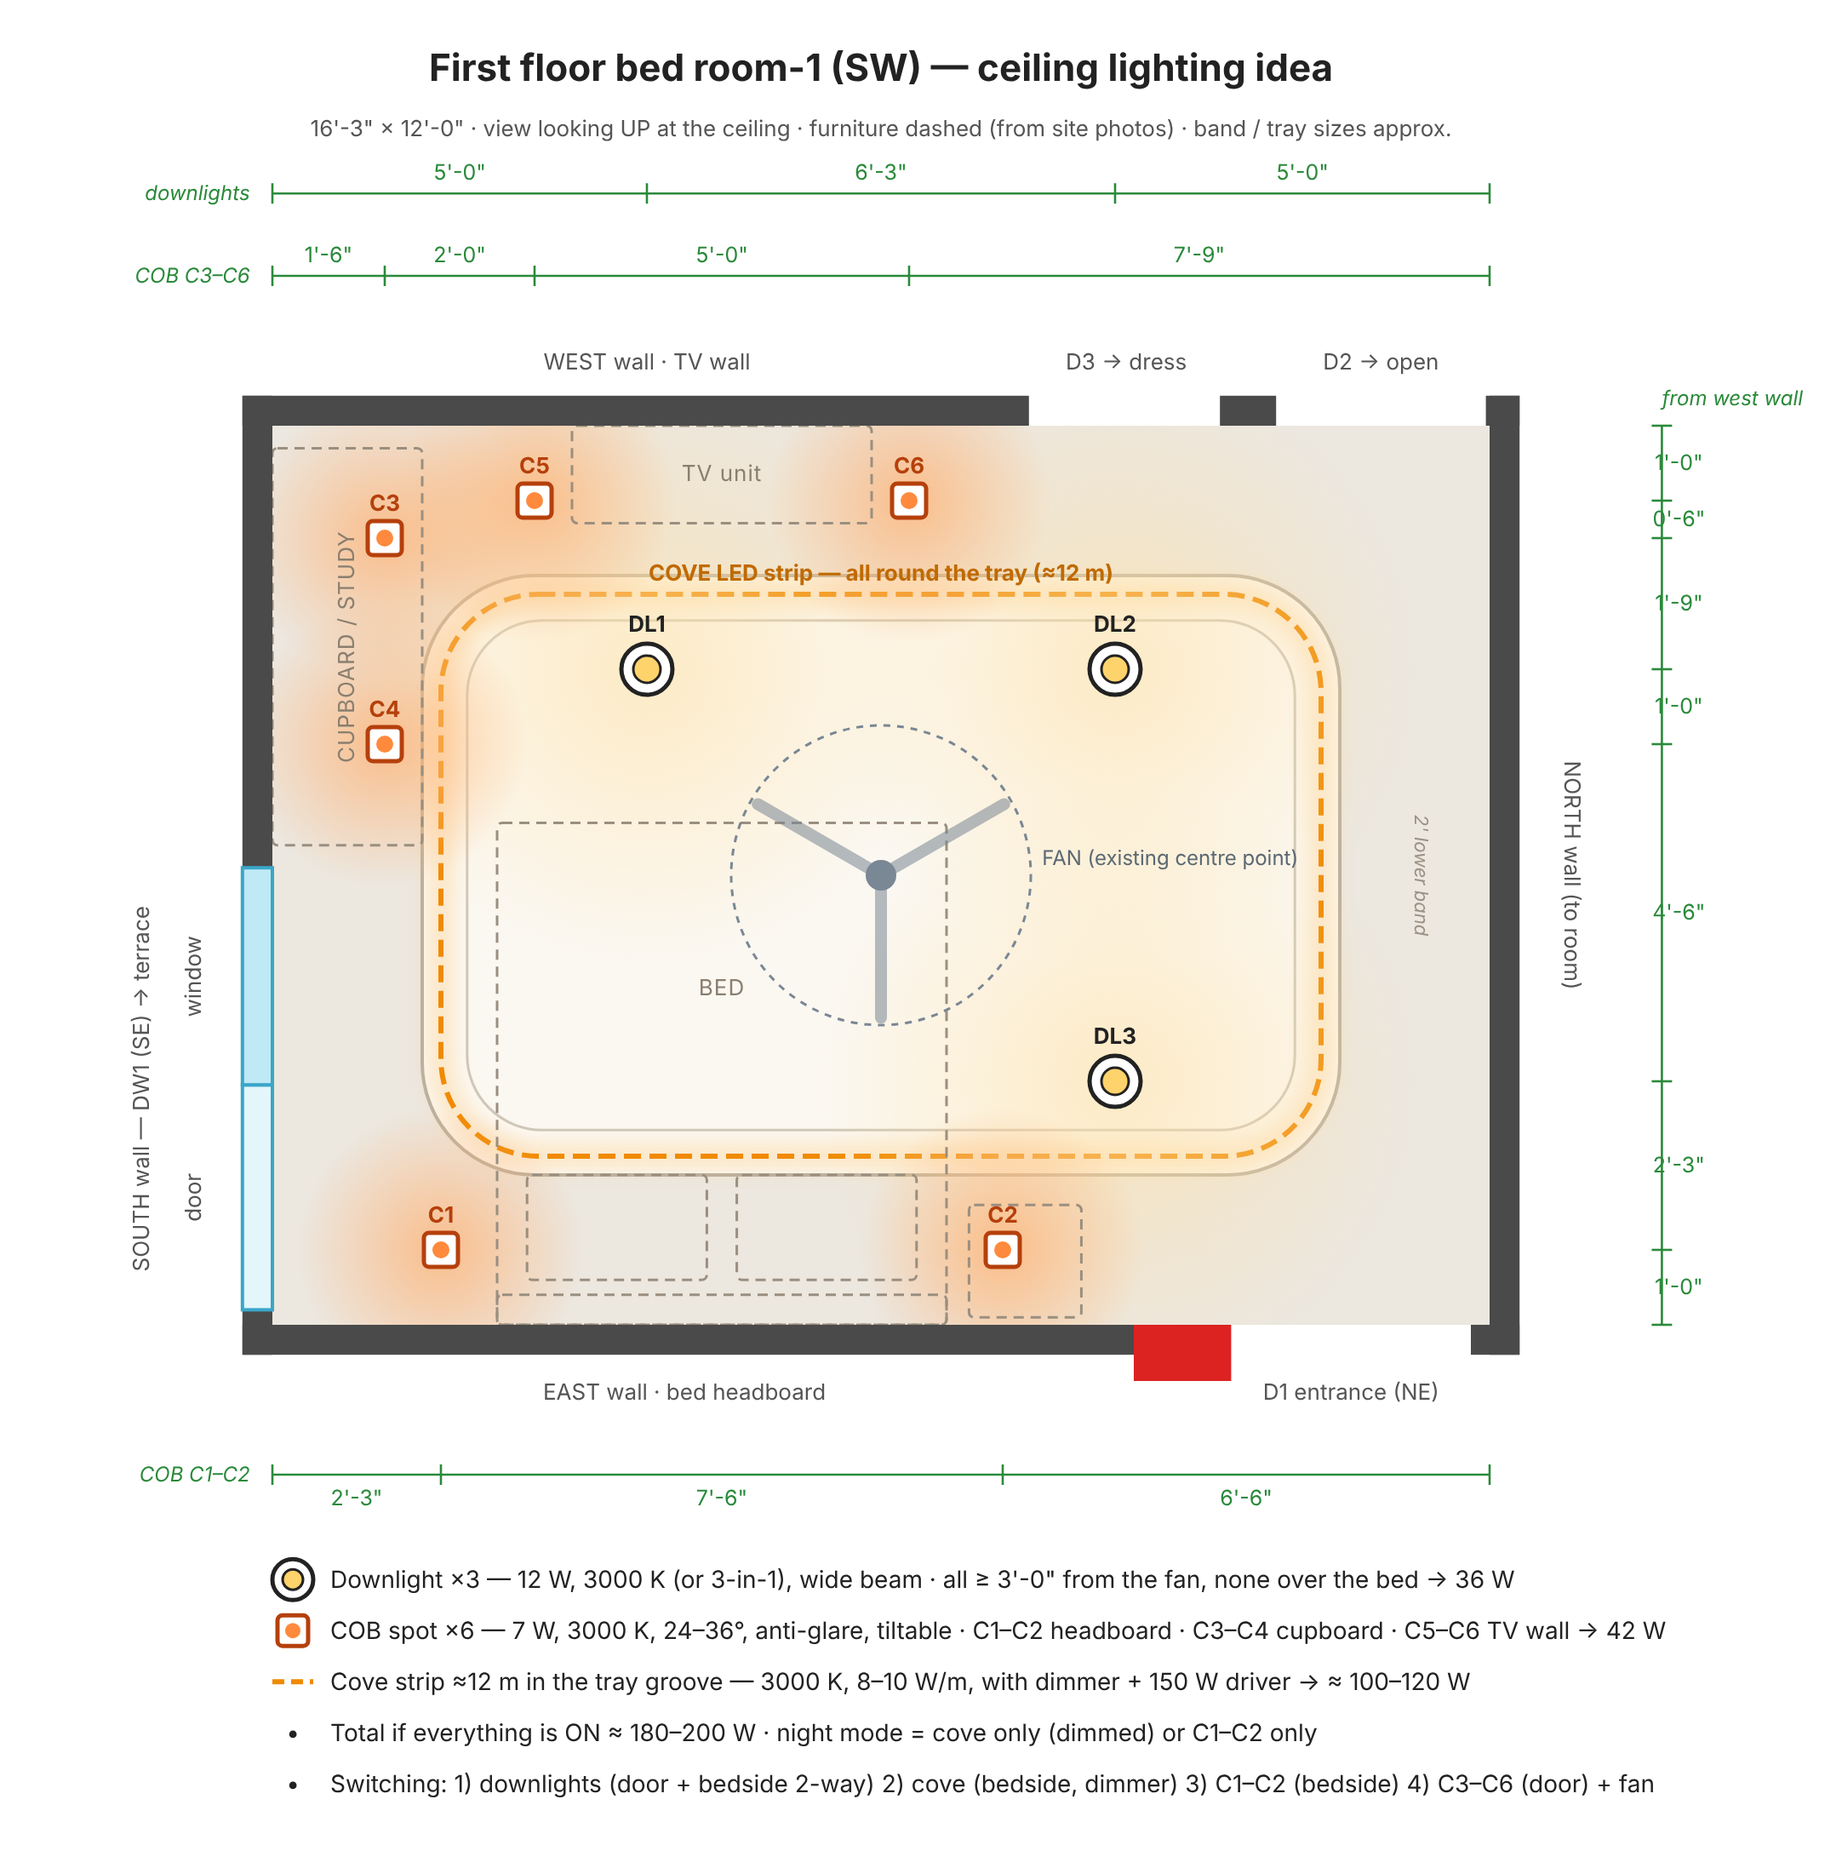
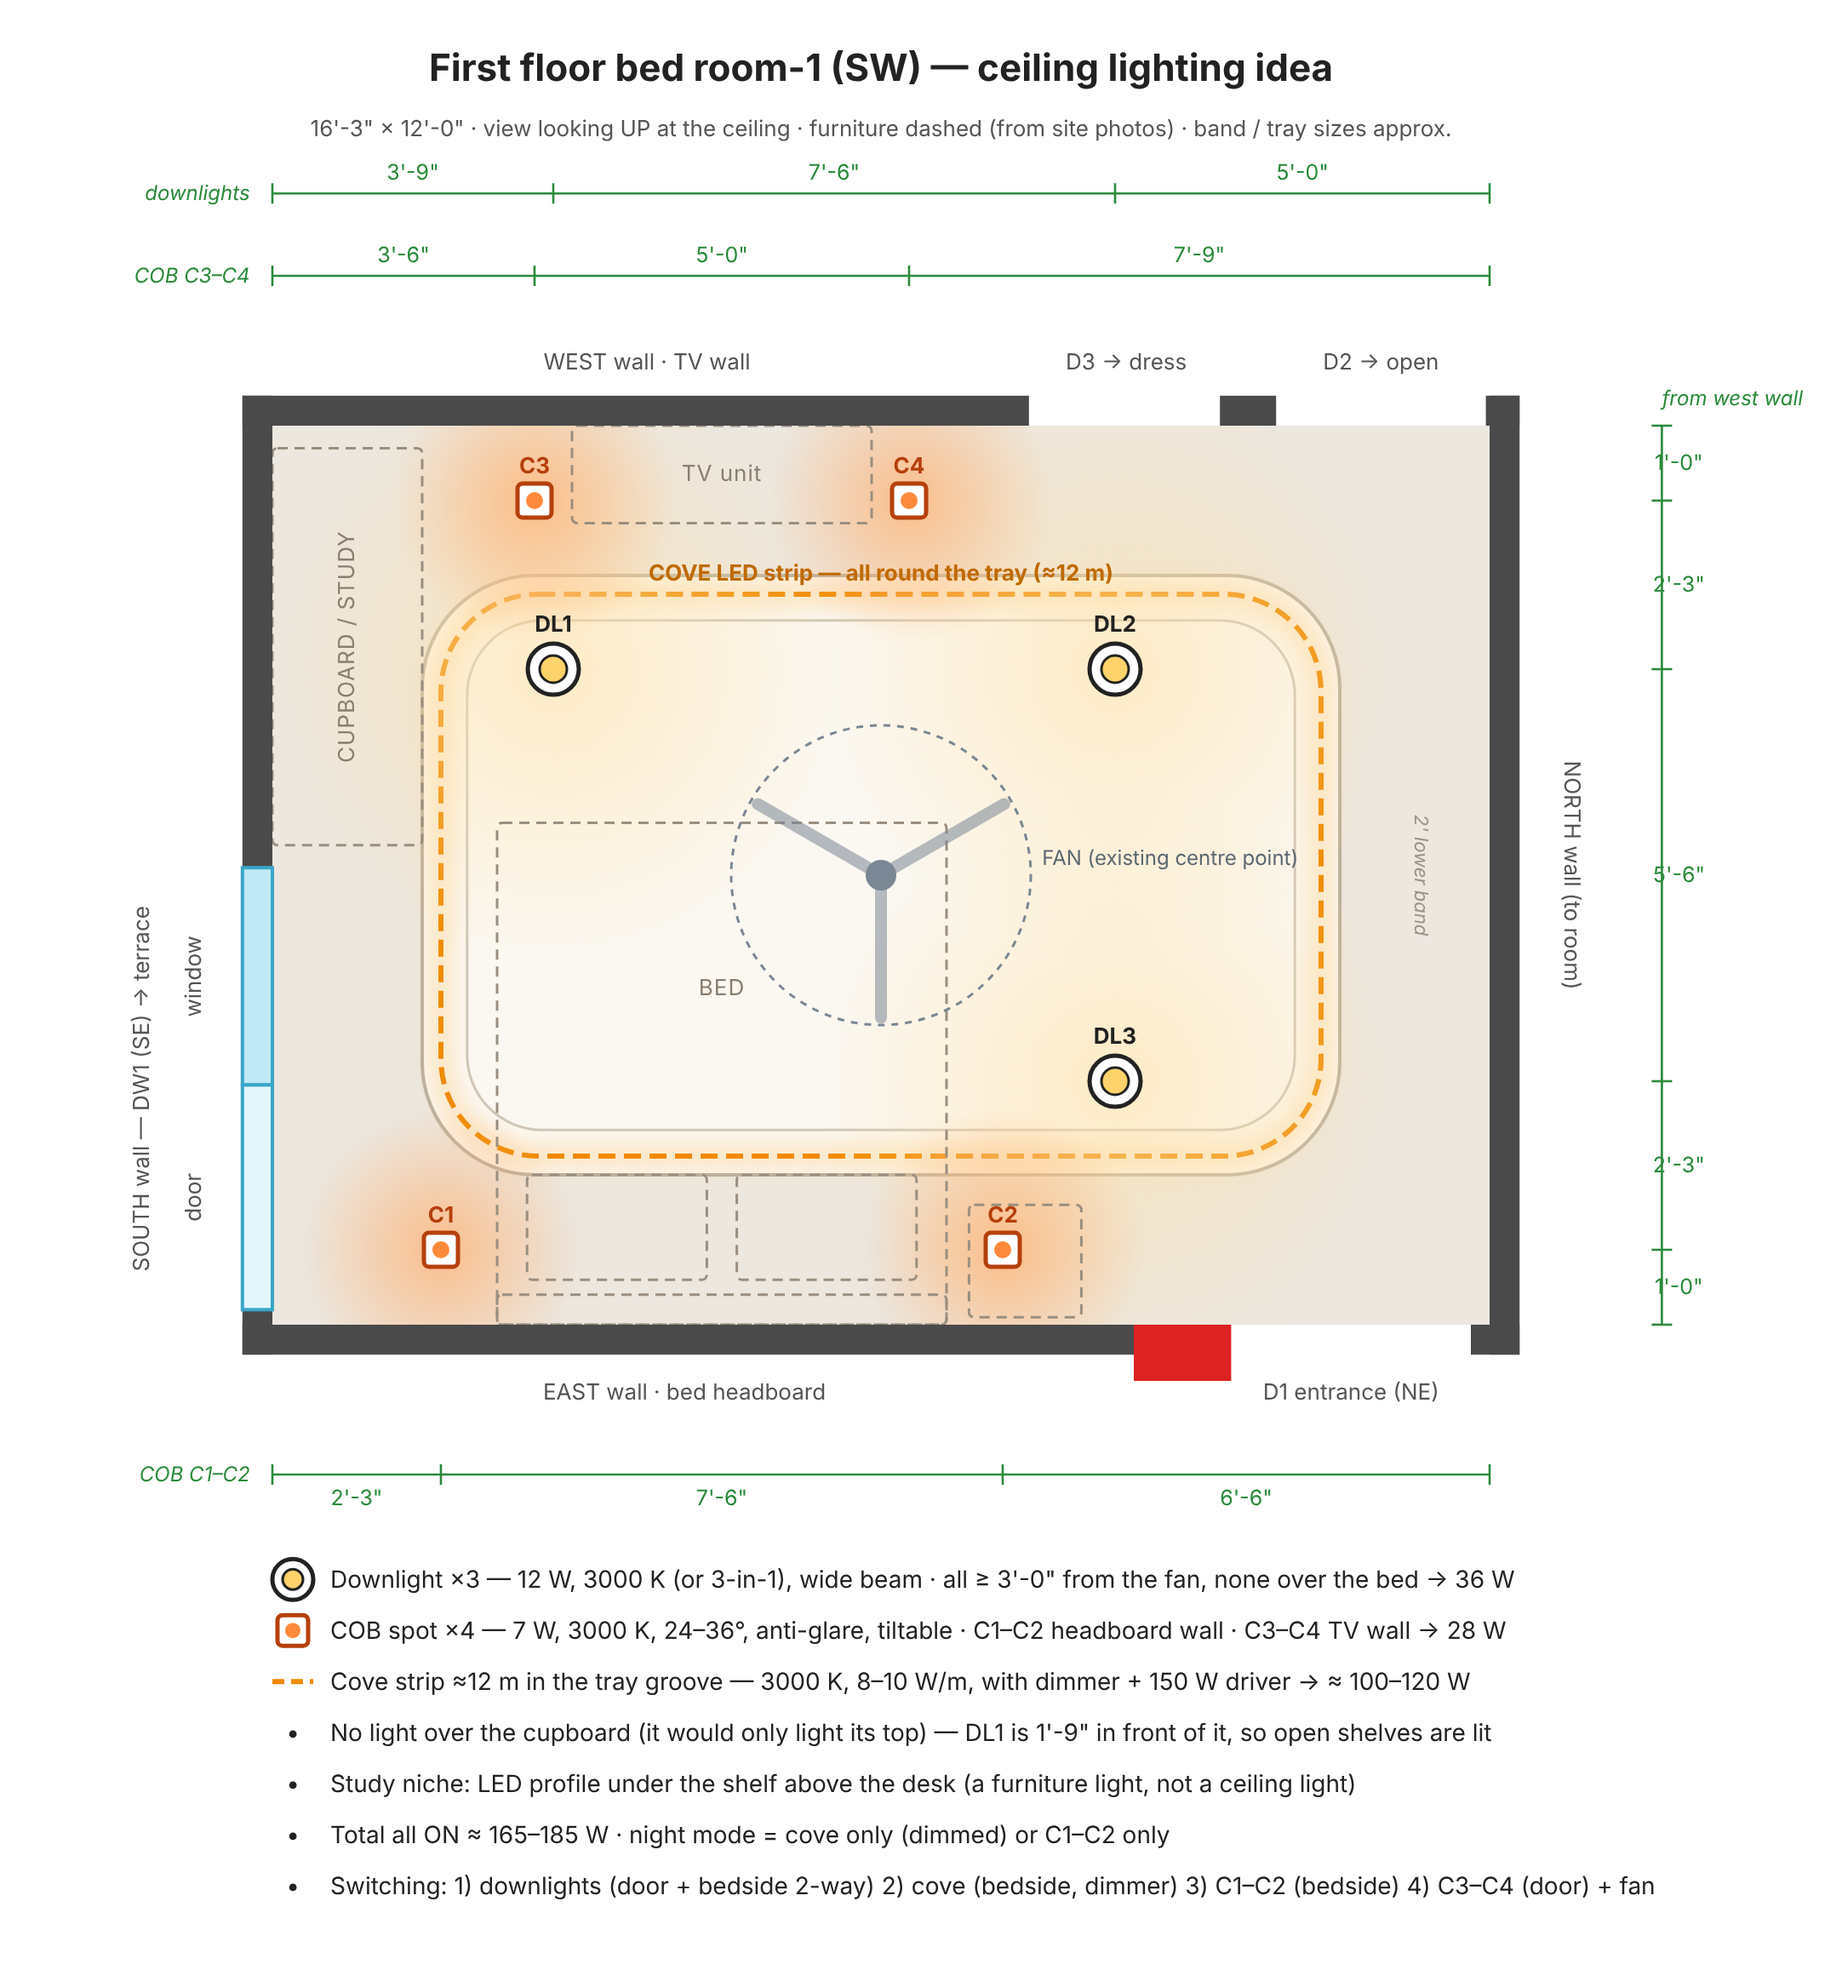
fix(ideas): drop spots over cupboard/wardrobe in bedroom lighting plans
A ceiling spot above a 2'-deep unit only lights its top. Front-of-unit
light now comes from the nearest downlights; dresser spot moved in front.

Claude-Session: https://claude.ai/code/session_01NB31rmuUVJUG6RumaKdizv

diff --git a/ideas/first_bedroom1_ceiling_lights.py b/ideas/first_bedroom1_ceiling_lights.py
@@ -28,10 +28,10 @@ def Y(y): return OY + y * S
 parts = []
 add = parts.append
 
-DL = [("DL1", 5.0, 3.25), ("DL2", 11.25, 3.25), ("DL3", 11.25, 8.75)]
+DL = [("DL1", 3.75, 3.25), ("DL2", 11.25, 3.25), ("DL3", 11.25, 8.75)]
 COB = [("C1", 2.25, 11.0), ("C2", 9.75, 11.0),      # headboard wall, beside the bed
-       ("C3", 1.5, 1.5), ("C4", 1.5, 4.25),         # cupboard / study unit
-       ("C5", 3.5, 1.0), ("C6", 8.5, 1.0)]          # TV wall, either side of the TV
+       ("C3", 3.5, 1.0), ("C4", 8.5, 1.0)]          # TV wall, either side of the TV
+# Nothing over the cupboard: a spot above a 2'-deep unit only lights its top. DL1 sits 1'-9" in front of it.
 
 def rrect(x0, y0, x1, y1, r, **kw):
     a = " ".join(f'{k.replace("_", "-")}="{v}"' for k, v in kw.items())
@@ -147,10 +147,10 @@ def dim_v(ys, x, lbl):
         add(f'<text x="{xx+10}" y="{(Y(a)+Y(b))/2+4}" class="dimt" text-anchor="start">{ftin(b-a)}</text>')
     add(f'<text x="{xx}" y="{Y(ys[0])-12}" class="dimlab">{lbl}</text>')
 
-dim_h([0, 1.5, 3.5, 8.5, L], -2.0, "COB C3–C6")
-dim_h([0, 5.0, 11.25, L], -3.1, "downlights")
+dim_h([0, 3.5, 8.5, L], -2.0, "COB C3–C4")
+dim_h([0, 3.75, 11.25, L], -3.1, "downlights")
 dim_h([0, 2.25, 9.75, L], W + 2.0, "COB C1–C2", 18)
-dim_v([0, 1.0, 1.5, 3.25, 4.25, 8.75, 11.0, W], L + 2.3, "from west wall")
+dim_v([0, 1.0, 3.25, 8.75, 11.0, W], L + 2.3, "from west wall")
 
 add(f'<text x="{X(L/2)}" y="{Y(-4.6)}" class="title">First floor bed room-1 (SW) — ceiling lighting idea</text>')
 add(f'<text x="{X(L/2)}" y="{Y(-4.0)+6}" class="sub">16\'-3" × 12\'-0" · view looking UP at the ceiling · furniture dashed (from site photos) · band / tray sizes approx.</text>')
@@ -159,10 +159,12 @@ add(f'<text x="{X(L/2)}" y="{Y(-4.0)+6}" class="sub">16\'-3" × 12\'-0" · view 
 lx, ly = X(0), Y(W + 3.4)
 leg = [
     ("dl", "Downlight ×3 — 12 W, 3000 K (or 3-in-1), wide beam · all ≥ 3'-0\" from the fan, none over the bed  →  36 W"),
-    ("cob", "COB spot ×6 — 7 W, 3000 K, 24–36°, anti-glare, tiltable · C1–C2 headboard · C3–C4 cupboard · C5–C6 TV wall  →  42 W"),
+    ("cob", "COB spot ×4 — 7 W, 3000 K, 24–36°, anti-glare, tiltable · C1–C2 headboard wall · C3–C4 TV wall  →  28 W"),
     ("cove", "Cove strip ≈12 m in the tray groove — 3000 K, 8–10 W/m, with dimmer + 150 W driver  →  ≈ 100–120 W"),
-    ("txt", "Total if everything is ON ≈ 180–200 W · night mode = cove only (dimmed) or C1–C2 only"),
-    ("txt", "Switching: 1) downlights (door + bedside 2-way)  2) cove (bedside, dimmer)  3) C1–C2 (bedside)  4) C3–C6 (door)  + fan"),
+    ("txt", "No light over the cupboard (it would only light its top) — DL1 is 1'-9\" in front of it, so open shelves are lit"),
+    ("txt", "Study niche: LED profile under the shelf above the desk (a furniture light, not a ceiling light)"),
+    ("txt", "Total all ON ≈ 165–185 W · night mode = cove only (dimmed) or C1–C2 only"),
+    ("txt", "Switching: 1) downlights (door + bedside 2-way)  2) cove (bedside, dimmer)  3) C1–C2 (bedside)  4) C3–C4 (door)  + fan"),
 ]
 for i, (k, t) in enumerate(leg):
     yy = ly + i * 30

diff --git a/ideas/ground_bedroom1_ceiling_lights.py b/ideas/ground_bedroom1_ceiling_lights.py
@@ -23,8 +23,8 @@ def pool(x, y, r, color, op):
 
 DL = [("DL1", 3.5, 8.75), ("DL2", 8.0, 8.75), ("DL3", 12.75, 8.75), ("DL4", 12.75, 3.25)]
 COB = [("C1", 1.25, 1.0, "over side table"), ("C2", 9.25, 1.0, "over side table"),
-       ("C3", 5.0, 10.5, "wardrobe front"), ("C4", 8.5, 10.5, "wardrobe front"),
-       ("C5", 14.75, 6.0, "dresser / mirror")]
+       ("C3", 13.75, 6.0, "person at the dresser / mirror")]
+# Nothing over the wardrobe: DL1-DL2 at 8'-9" are 1'-3" in front of its shutters and light them.
 
 # floor
 add(f'<rect x="{X(0)}" y="{Y(0)}" width="{L*S}" height="{W*S}" fill="#f6f1e8"/>')
@@ -126,7 +126,7 @@ dim_h([0, 3.5, 8.0, 12.75, L], -2.1)            # downlight x positions (row y =
 add(f'<text x="{X(-0.3)}" y="{Y(-2.1)+4}" class="dimlab" text-anchor="end">downlights</text>')
 dim_h([0, 1.25, 9.25, L], -3.3)
 add(f'<text x="{X(-0.3)}" y="{Y(-3.3)+4}" class="dimlab" text-anchor="end">COB C1–C2</text>')
-dim_v([0, 1.0, 3.25, 6.0, 8.75, 10.5, W], L + 2.3)
+dim_v([0, 1.0, 3.25, 6.0, 8.75, W], L + 2.3)
 add(f'<text x="{X(L+2.3)}" y="{Y(-0.5)}" class="dimlab">from west wall</text>')
 
 # overall
@@ -134,16 +134,16 @@ add(f'<text x="{X(L/2)}" y="{Y(-4.6)}" class="title">Bed room-1 (ground floor, S
 add(f'<text x="{X(L/2)}" y="{Y(-4.0)+6}" class="sub">16\'-3" × 12\'-0", ceiling 10\'-0" · reflected ceiling plan · no cove light · furniture dashed = assumed layout</text>')
 
 # ---- legend ----
-dim_h([0, 5.0, 8.5, 14.75, L], W + 2.0, 18)
-add(f'<text x="{X(-0.3)}" y="{Y(W+2.0)+4}" class="dimlab" text-anchor="end">COB C3–C5</text>')
+dim_h([0, 13.75, L], W + 2.0, 18)
+add(f'<text x="{X(-0.3)}" y="{Y(W+2.0)+4}" class="dimlab" text-anchor="end">COB C3</text>')
 lx, ly = X(0), Y(W + 3.4)
 leg = [
     ("dl", "Downlight ×4 — 12 W each (~1,100 lm), round recessed, 3000 K or 3-in-1 CCT  →  48 W"),
-    ("cob", "COB spot ×5 — 7 W each (~550 lm), 3000 K, 24–36° beam, anti-glare, tiltable  →  35 W"),
-    ("txt", "Cove light: none in this room.   TOTAL ≈ 83 W  (195 sq ft ≈ 0.4 W/sq ft, ~130 lux general light)"),
+    ("cob", "COB spot ×3 — 7 W each (~550 lm), 3000 K, 24–36° beam, anti-glare, tiltable  →  21 W"),
+    ("txt", "Cove light: none in this room.   TOTAL ≈ 69 W  (195 sq ft ≈ 0.35 W/sq ft, ~130 lux general light)"),
     ("txt", "18 W downlights instead: 4 × 18 W ≈ 190 lux = too bright for a bedroom (OK only with a dimmer)."),
-    ("txt", "C1–C2 over the side tables · C3–C4 on the wardrobe · C5 over the dresser · no light over the pillows"),
-    ("txt", "Switching: A = downlights (2-way, door + bedside) · B = C1–C2 (bedside) · C = C3–C5 (door)"),
+    ("txt", "C1–C2 over the side tables · C3 in front of the dresser (lights your face) · nothing over the wardrobe or the pillows"),
+    ("txt", "Switching: A = downlights (2-way, door + bedside) · B = C1–C2 (bedside) · C = C3 (door)"),
 ]
 for i, (k, t) in enumerate(leg):
     yy = ly + i * 30
